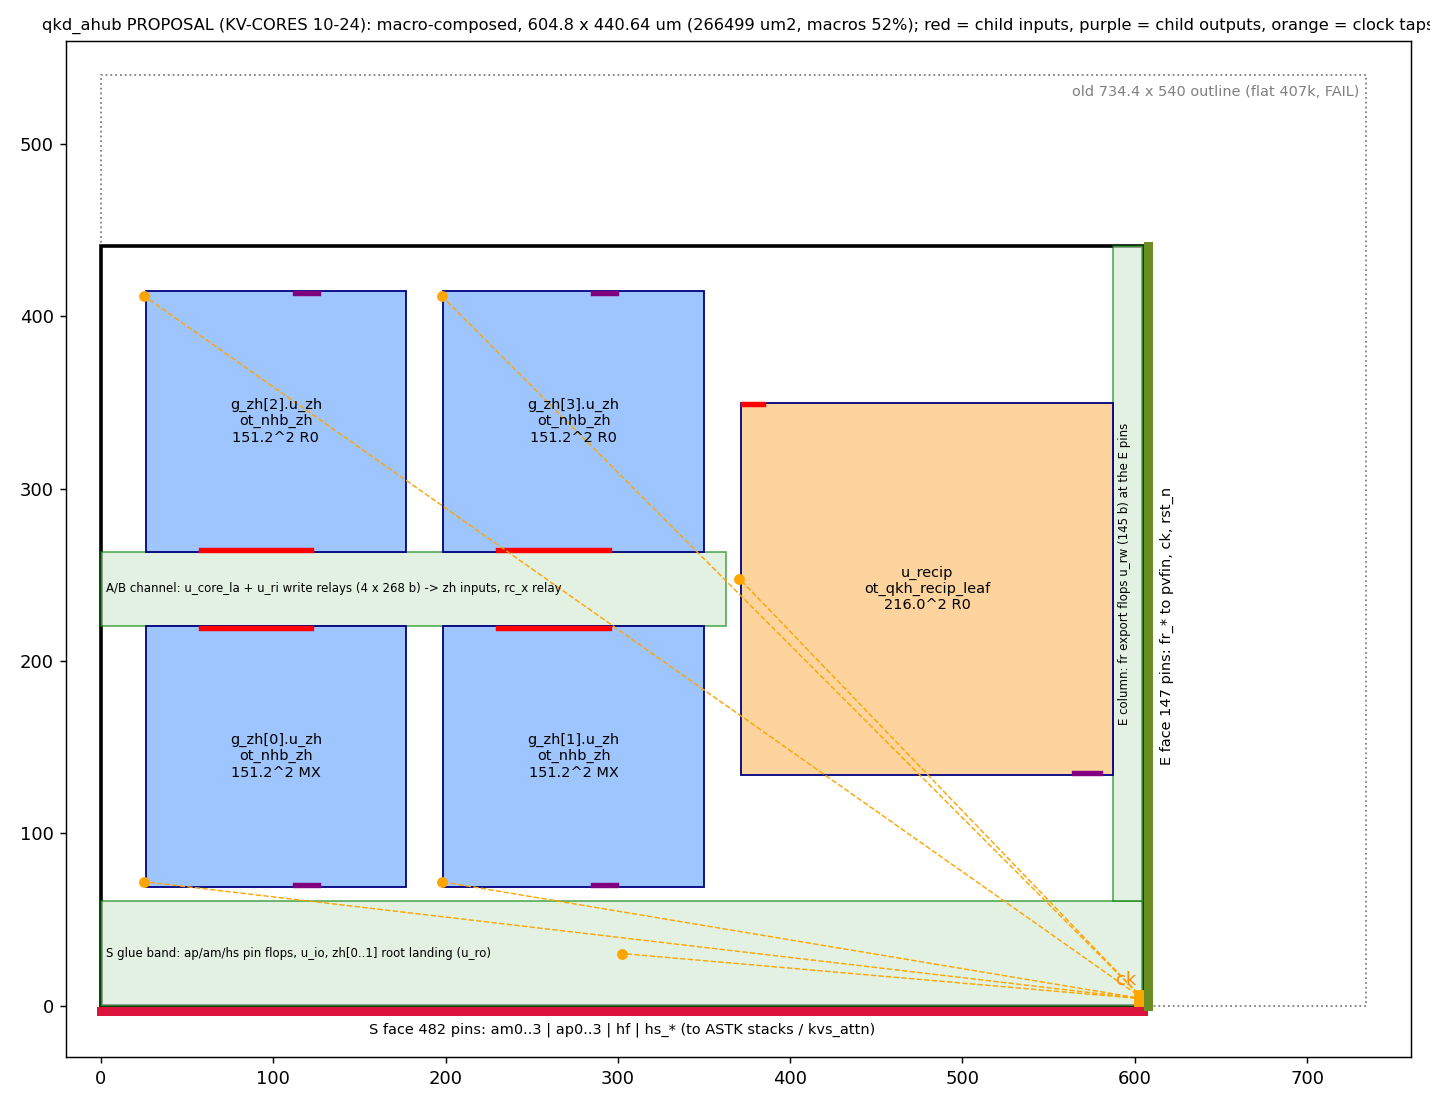
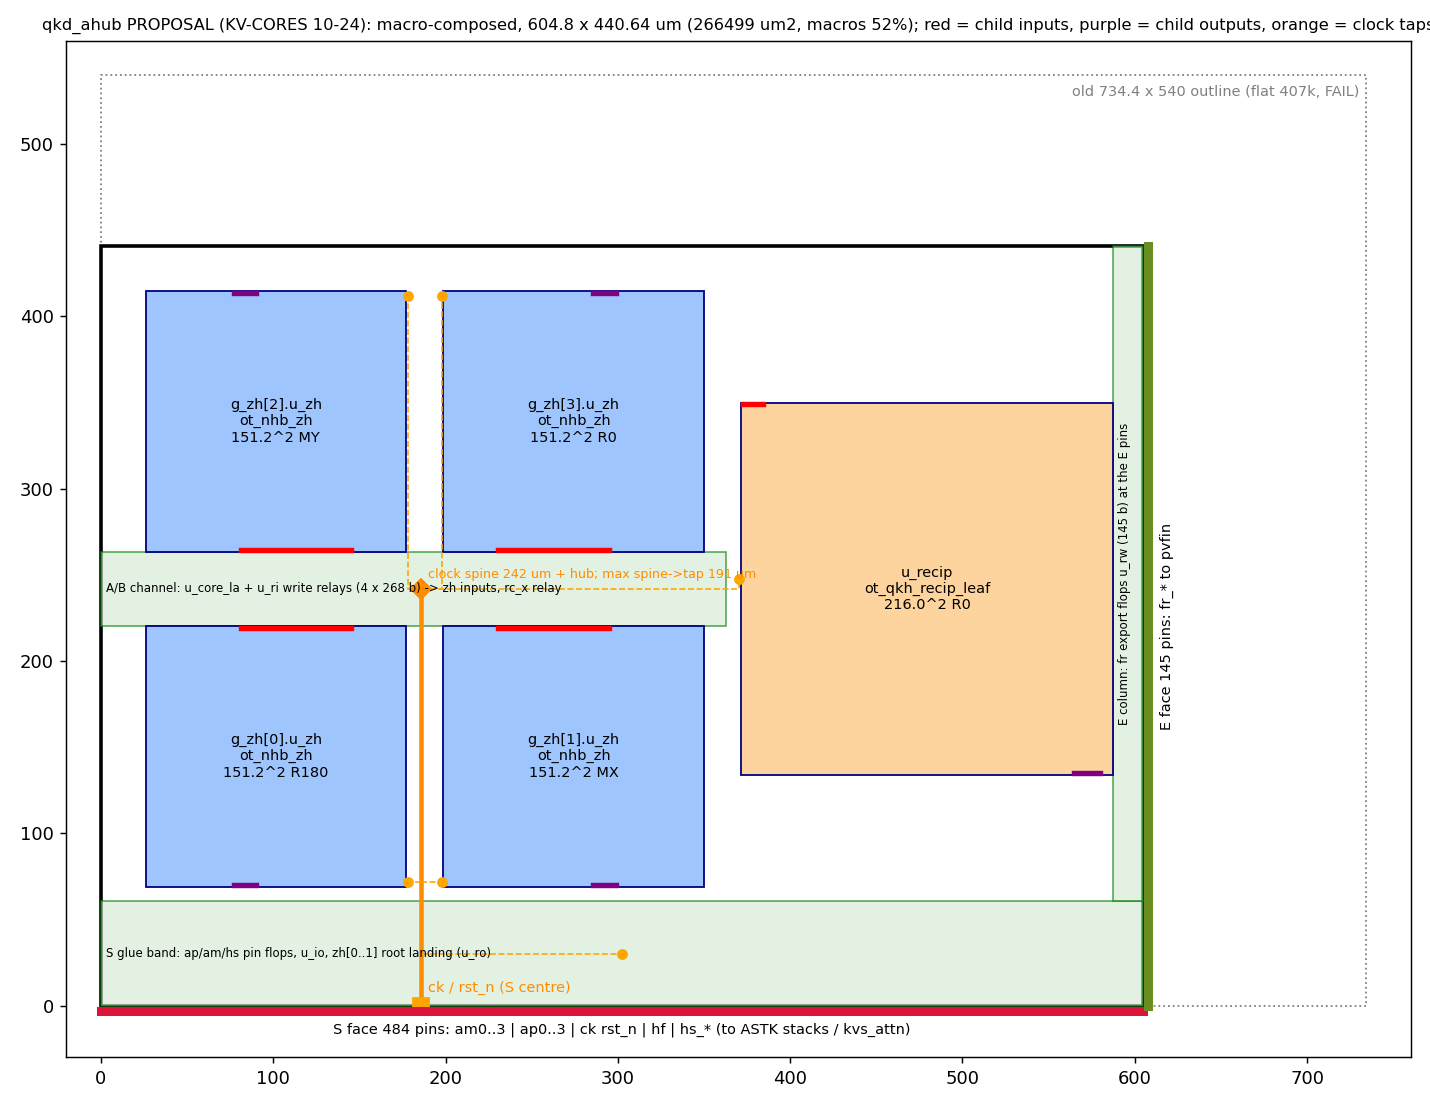
KV-CORES: qkd_ahub proposal r2 -- ck/rst_n at the S face under the macro-array centre, centre-fed spine (242 um) up the zh column gap to a channel hub; left-column zh mirrored (MY/R180) so all zh clk pins sit on the spine; max spine->tap 191 um (was SE-corner taps up to ~650 um, COORD spot-check)

diff --git a/physical/die_plan/qwen_kvsys/cores/harden/ahub_fp_proposal.py b/physical/die_plan/qwen_kvsys/cores/harden/ahub_fp_proposal.py
@@ -17,7 +17,7 @@ Proposal = macro-composed core (owner rule 10-11 top-down hierarchy: replicated 
   * outline shrunk from 734.4 x 540 to W x H below, S-E corner kept in place in hub_C (ahub talks only S (ap/am to
     the ASTK stacks, hs from kvs_attn) and E (fr to pvfin)), so no link gets longer; the freed N/W L-strip returns to
     hub_C glue.  Pins re-assigned by core_pins_v37p.py on the new outline (same faces S / E; plan tool, KV-P);
-  * clock (decision 5 + core-latency contract (e)): ck stays at the S-E corner; a parent spine with 6 taps
+  * clock (decision 5 + core-latency contract (e)): ck / rst_n at the S-face centre (COORD 10-24), one spine to a hub at the channel centre, 6 taps
     (5 child clk pins + 1 glue tap grid over the S band and the channel), each child's tap delayed so child flop latency
     (zh TT 246 / recip 224 ps measured inside) lands in one 20-ps window with the glue flops; published core latency =
     that window (core_latency.json), parent compensates with an early core tap.  No single corner tree over the core.
@@ -34,11 +34,11 @@ BAND = 7 * G                                   # S glue band 60.48 (pin flops ap
 blocks = [
     # row A: MX -> zh inputs (LEF S face, 268 b) face UP into the A/B channel where u_core_la + u_ri sit; roots (64 b
     # + zerr 4) face DOWN to the S band (registered at the band, then ~170 um to u_core)
-    dict(inst='g_zh[0].u_zh', master='ot_nhb_zh', x=3 * G, y=8 * G, w=ZH, h=ZH, orient='MX'),
+    dict(inst='g_zh[0].u_zh', master='ot_nhb_zh', x=3 * G, y=8 * G, w=ZH, h=ZH, orient='R180'),
     dict(inst='g_zh[1].u_zh', master='ot_nhb_zh', x=23 * G, y=8 * G, w=ZH, h=ZH, orient='MX'),
     # row B: R0 -> inputs (S) face DOWN into the same channel; roots (N) return down the W / middle side channels
     # (the closed qkd_ahub_sdw used the same MX-below / R0-above pairing around its core channel)
-    dict(inst='g_zh[2].u_zh', master='ot_nhb_zh', x=3 * G, y=30.5 * G, w=ZH, h=ZH, orient='R0'),
+    dict(inst='g_zh[2].u_zh', master='ot_nhb_zh', x=3 * G, y=30.5 * G, w=ZH, h=ZH, orient='MY'),
     dict(inst='g_zh[3].u_zh', master='ot_nhb_zh', x=23 * G, y=30.5 * G, w=ZH, h=ZH, orient='R0'),
     # reciprocal leaf on the E side next to the fr export face; x pins (N, left corner) toward the channel / core,
     # y (S, right) down to the S band (RX_RLY 1 / RY_RLY 2 relays exist in the RTL)
@@ -51,10 +51,29 @@ regions = [
          h=30.5 * G - 8 * G - ZH),
     dict(name='E column: fr export flops u_rw (145 b) at the E pins', x=W - 2 * G, y=BAND, w=2 * G, h=H - BAND),
 ]
-taps = [dict(name=f"tap->{b['inst']}/clk", x=b['x'] - 1.0, y=b['y'] + (148.4 if b['master'] == 'ot_nhb_zh' and b['orient'] == 'R0' else 2.8 if b['master'] == 'ot_nhb_zh' else 113.9))
-        for b in blocks] + [dict(name='glue tap grid (S band + channel)', x=W / 2, y=BAND / 2)]
-pins = dict(S=dict(groups=['am0..3 (144)', 'ap0..3 (172)', 'hf', 'hs_* (166)'], count=482),
-            E=dict(groups=['ck (S-E corner)', 'fr_epoch', 'fr_rz (128)', 'fr_valid', 'rst_n'], count=147))
+# left-column zh mirrored in x (MY / R180) so every zh clk pin (LEF W face, y 148.4) sits on the column gap next to
+# the spine; vertical flip (MX / R180) for row A so its inputs face the channel
+def clk_xy(b):
+    if b['master'] != 'ot_nhb_zh':
+        return b['x'] - 1.0, b['y'] + 113.9
+    fx = b['orient'] in ('MY', 'R180'); fy = b['orient'] in ('MX', 'R180')
+    return (b['x'] + b['w'] + 1.0 if fx else b['x'] - 1.0), b['y'] + (b['h'] - 148.4 if fy else 148.4)
+
+
+taps = [dict(name=f"tap->{b['inst']}/clk", x=clk_xy(b)[0], y=clk_xy(b)[1])
+        for b in blocks] + [dict(name='glue tap grid (S band + channel)', x=W / 2, y=BAND / 2)]   # fed off the spine foot
+# COORD spot-check 10-24: ck / rst_n move from the S-E corner to the S-face centre (between the ap and hs groups); the
+# clock is centre-fed: S-centre pin -> one spine up the zh0/zh1 column gap -> hub at the A/B channel centre -> taps
+CK = (21.5 * G, 0.0)                         # 185.76: S face, centre of the zh column gap / channel hub x
+HUB = (21.5 * G, 8 * G + ZH + (30.5 * G - 8 * G - ZH) / 2)     # channel centre (185.76, 241.92)
+pins = dict(S=dict(groups=['am0..3 (144)', 'ap0..3 (172)', 'ck + rst_n (S centre, x ~186)', 'hf', 'hs_* (166)'],
+                   count=484),
+            E=dict(groups=['fr_epoch', 'fr_rz (128)', 'fr_valid'], count=145))
+
+
+def spine_d(t):
+    """Manhattan distance from a tap to the clock spine (S-centre pin -> channel hub, vertical at CK x)."""
+    return abs(t['x'] - CK[0]) + max(0.0, t['y'] - HUB[1])
 
 
 def check():
@@ -93,23 +112,30 @@ def render(out):
         ax.text(b['x'] + b['w'] / 2, b['y'] + b['h'] / 2, f"{b['inst']}\n{b['master']}\n{b['w']}^2 {b['orient']}",
                 ha='center', va='center', fontsize=8)
         if b['master'] == 'ot_nhb_zh':      # LEF: input pins S x 32-96, roots N x 87-100, clk W top (MX: swapped)
-            yi, yo = (b['y'] + 1, b['y'] + b['h'] - 1) if b['orient'] == 'R0' else (b['y'] + b['h'] - 1, b['y'] + 1)
-            ax.plot([b['x'] + 32, b['x'] + 96], [yi, yi], color='red', lw=3)
-            ax.plot([b['x'] + 87, b['x'] + 100], [yo, yo], color='purple', lw=3)
+            fy = b['orient'] in ('MX', 'R180'); fx = b['orient'] in ('MY', 'R180')
+            yi, yo = (b['y'] + b['h'] - 1, b['y'] + 1) if fy else (b['y'] + 1, b['y'] + b['h'] - 1)
+            X = (lambda u: b['x'] + b['w'] - u) if fx else (lambda u: b['x'] + u)
+            ax.plot([X(32), X(96)], [yi, yi], color='red', lw=3)
+            ax.plot([X(87), X(100)], [yo, yo], color='purple', lw=3)
         else:                                # x N x 1-13, y S x 193-208
             ax.plot([b['x'] + 1, b['x'] + 13], [b['y'] + b['h'] - 1] * 2, color='red', lw=3)
             ax.plot([b['x'] + 193, b['x'] + 208], [b['y'] + 1] * 2, color='purple', lw=3)
-    ck = (W, 3.96)
+    ck = CK
+    ax.plot([ck[0], HUB[0]], [ck[1], HUB[1]], color='darkorange', lw=2.5)
     for t in taps:
-        ax.plot([ck[0], t['x']], [ck[1], t['y']], color='orange', lw=.8, ls='--')
+        y0 = min(max(t['y'], 0), HUB[1])
+        ax.plot([HUB[0], t['x'], t['x']], [y0, y0, t['y']], color='orange', lw=.9, ls='--')
         ax.plot(t['x'], t['y'], 'o', color='orange', ms=5)
-    ax.plot(*ck, 's', color='orange', ms=9)
-    ax.text(ck[0] - 4, ck[1] + 8, 'ck', color='darkorange', ha='right')
+    ax.plot(*ck, 's', color='orange', ms=9); ax.plot(*HUB, 'D', color='darkorange', ms=8)
+    ax.text(ck[0] + 4, ck[1] + 8, 'ck / rst_n (S centre)', color='darkorange', fontsize=8)
+    far = max(spine_d(t) for t in taps)
+    ax.text(HUB[0] + 4, HUB[1] + 6, f'clock spine {HUB[1]:.0f} um + hub; max spine->tap {far:.0f} um', fontsize=7,
+            color='darkorange')
     ax.plot([0, W], [-3, -3], color='crimson', lw=5)
-    ax.text(W / 2, -16, 'S face 482 pins: am0..3 | ap0..3 | hf | hs_* (to ASTK stacks / kvs_attn)', ha='center',
+    ax.text(W / 2, -16, 'S face 484 pins: am0..3 | ap0..3 | ck rst_n | hf | hs_* (to ASTK stacks / kvs_attn)', ha='center',
             fontsize=8)
     ax.plot([W + 3, W + 3], [0, H], color='olivedrab', lw=5)
-    ax.text(W + 10, H / 2, 'E face 147 pins: fr_* to pvfin, ck, rst_n', rotation=90, va='center', fontsize=8)
+    ax.text(W + 10, H / 2, 'E face 145 pins: fr_* to pvfin', rotation=90, va='center', fontsize=8)
     s = check()
     ax.set_title(f"qkd_ahub PROPOSAL (KV-CORES 10-24): macro-composed, {W:.1f} x {H:.2f} um "
                  f"({s['area_um2']} um2, macros {s['macro_fraction']:.0%}); red = child inputs, purple = child "
@@ -122,7 +148,9 @@ def main():
     out = Path(sys.argv[1]); out.mkdir(parents=True, exist_ok=True)
     s = check()
     plan = dict(schema='opentallas.kv.core_fp_proposal.v1', core='qkd_ahub', status='PROPOSAL (no P&R before GEOM PASS)',
-                summary=s, blocks=blocks, regions=regions, clock_taps=taps, pins=pins,
+                summary=dict(s, clock=dict(pin_xy=CK, hub_xy=HUB, spine_um=HUB[1],
+                             max_spine_to_tap_um=round(max(spine_d(t) for t in taps), 1))),
+                blocks=blocks, regions=regions, clock_taps=taps, pins=pins,
                 reuse_views={'ot_nhb_zh': 'physical/ref_tile/ot_nhb_zh_m5/views/ot_nhb_zh',
                              'ot_qkh_recip_leaf': 'physical/ref_tile/qkh_recip_ref/views/ot_qkh_recip_leaf'},
                 prior_closed_composition='physical/ref_tile/qkd_ahub_sdw (qkd_ahub_static_dw 734.4 x 540, same children)',
